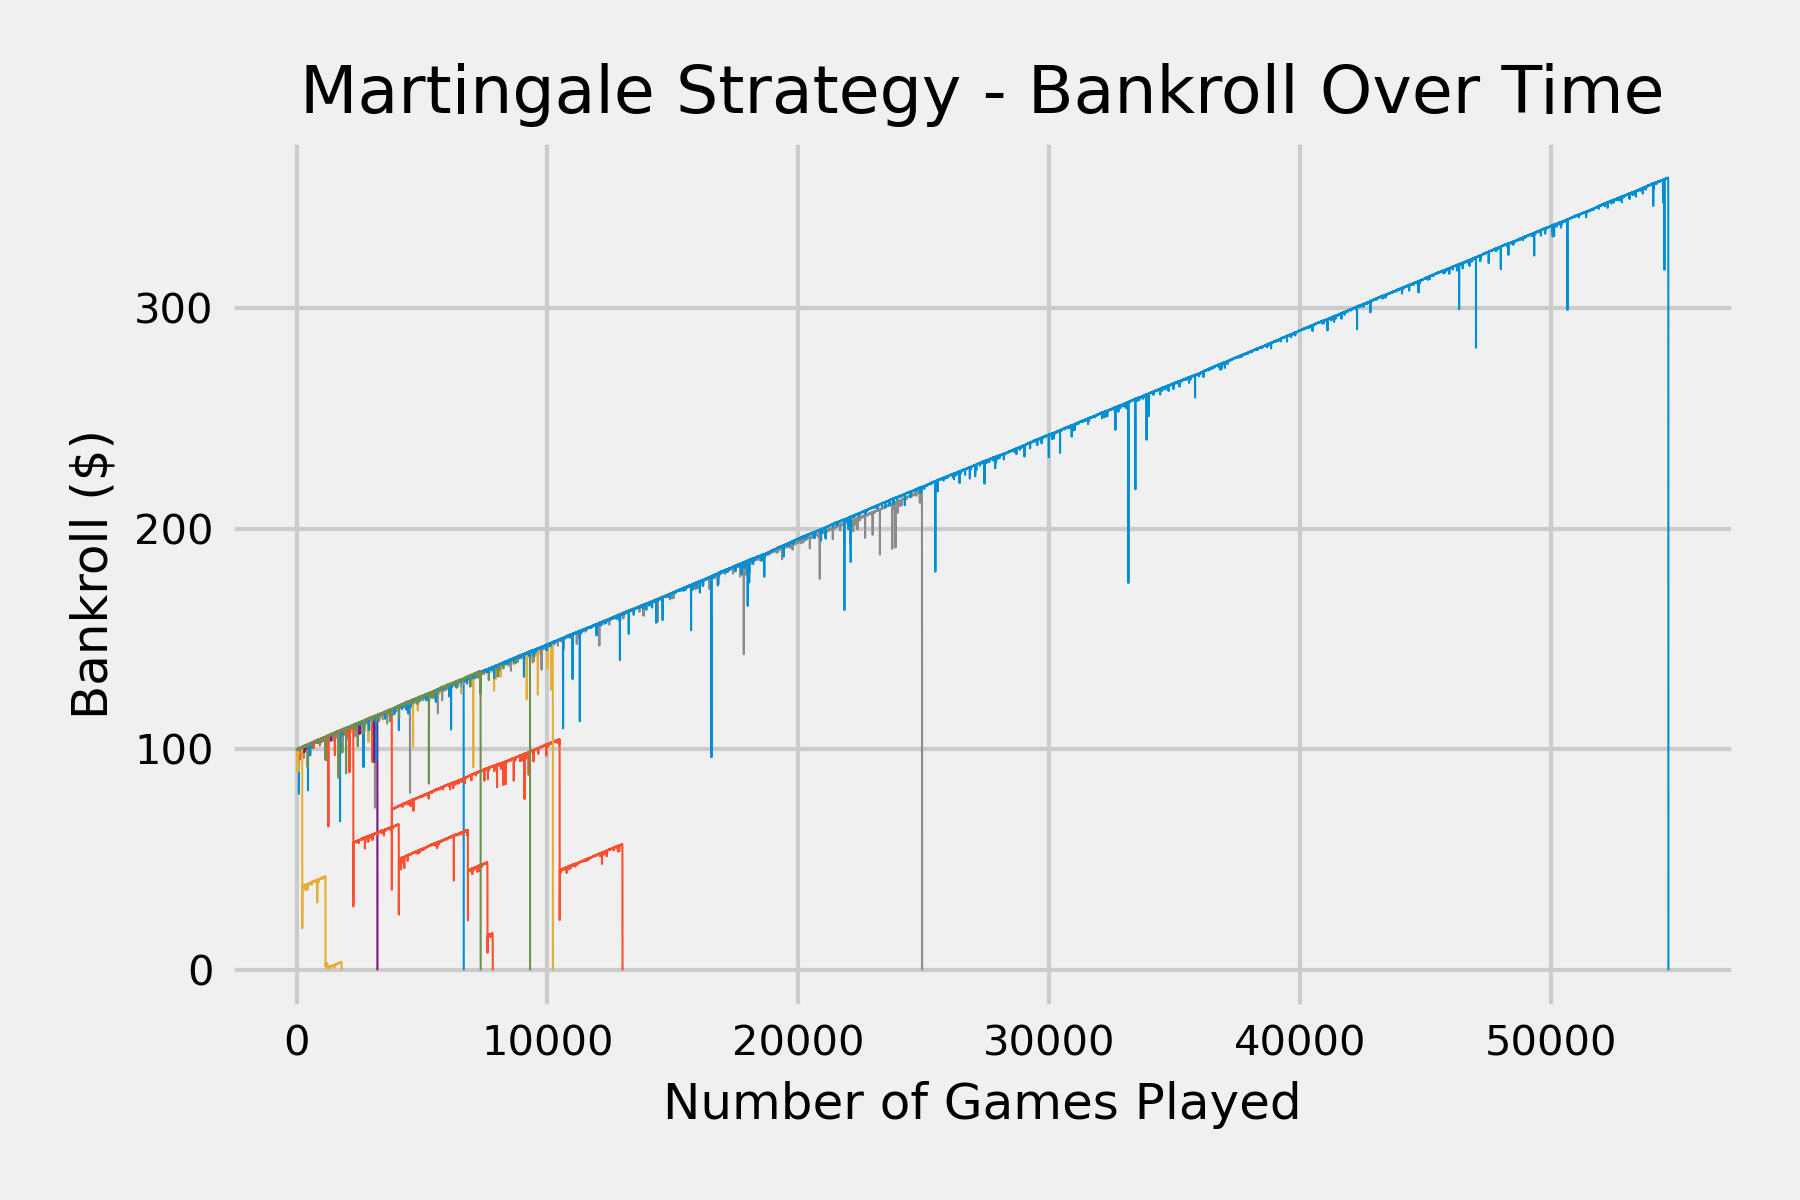
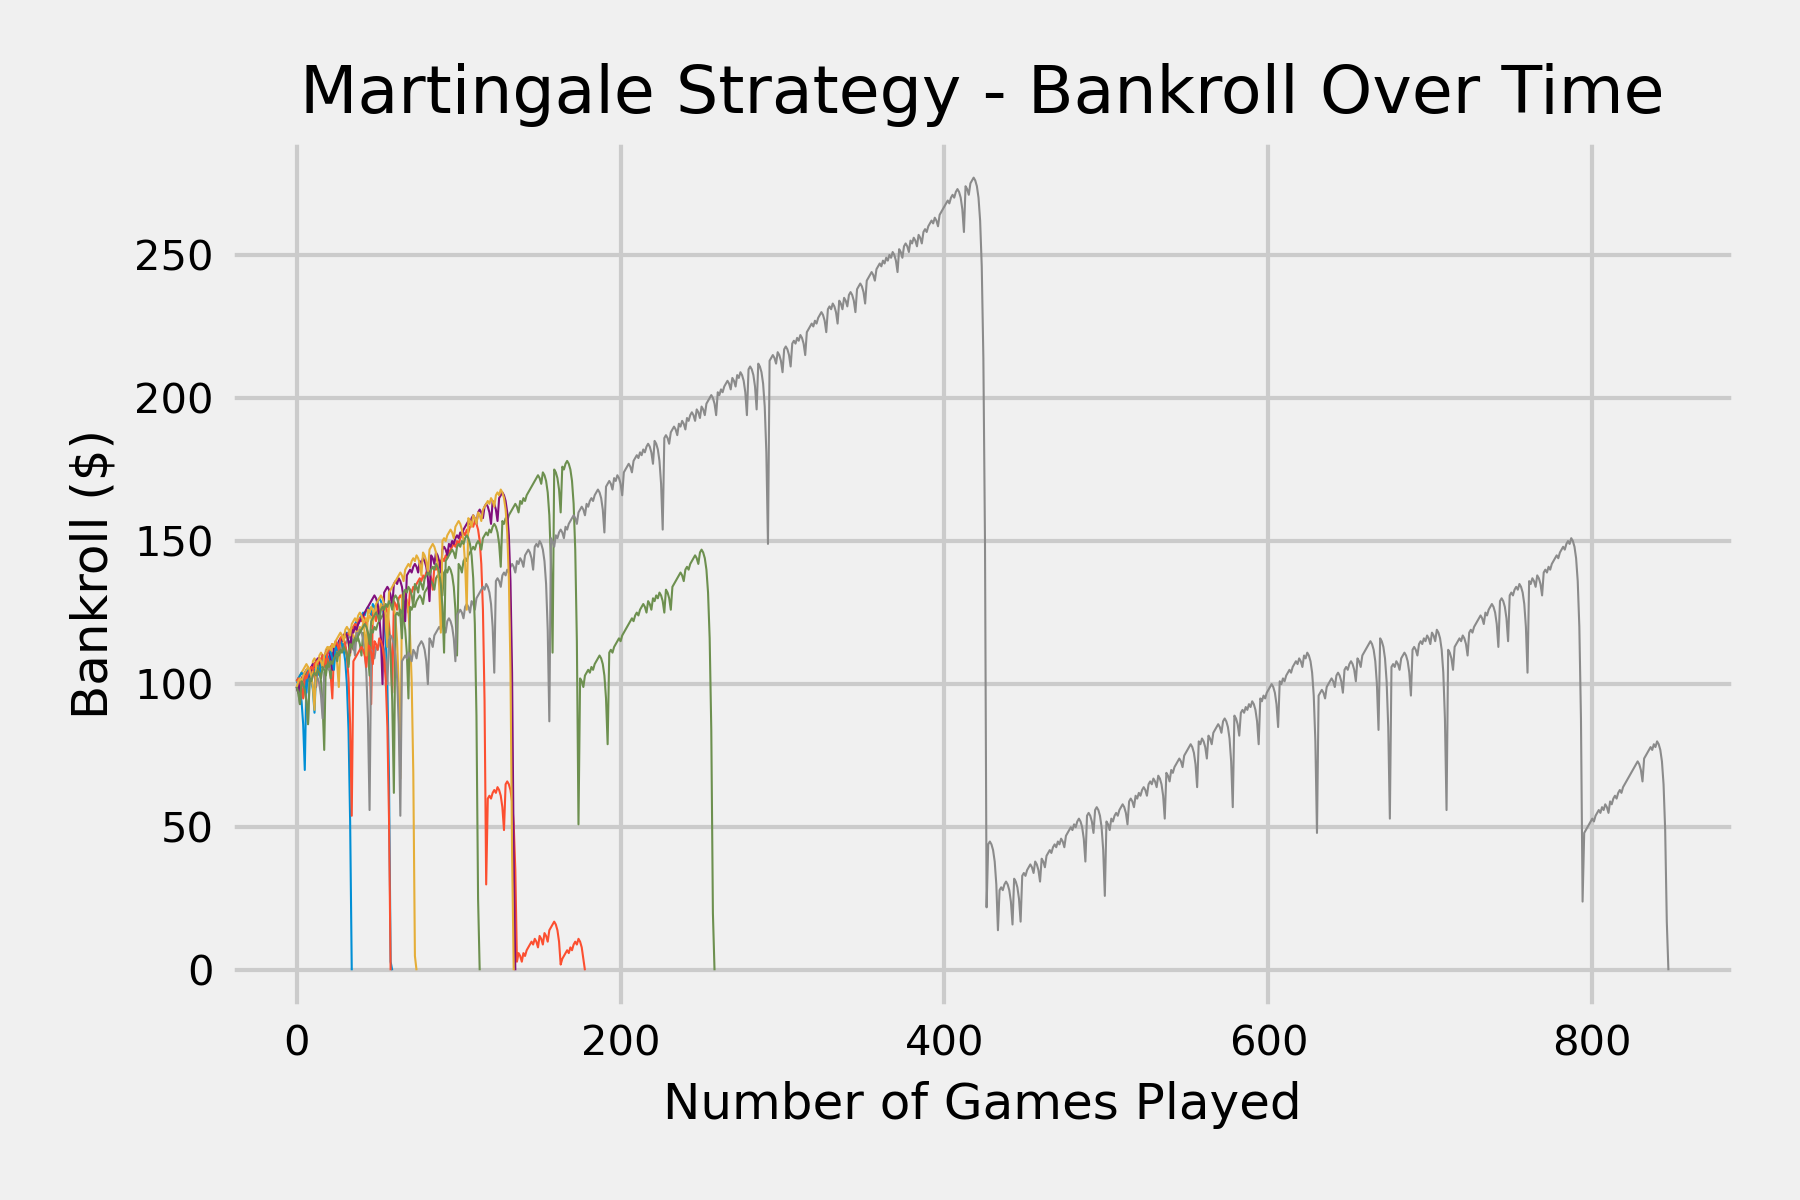
Modified roulette script

diff --git a/roulette.py b/roulette.py
@@ -66,7 +66,7 @@ the bet after every loss.
 def martingale():
     bankroll_over_time = []
     bankroll = 100  # Starting money reserve
-    bet = 0.01  # Initial bet
+    bet = 1  # Initial bet
     while bankroll > 0:
         roll = spin_wheel()
         if bet > bankroll:
@@ -74,7 +74,7 @@ def martingale():
         #outcomes.append(roll)
         if roll == 'red':
             bankroll += bet
-            bet = 0.01
+            bet = 1
         else:
             bankroll -= bet
             bet *= 2
@@ -97,7 +97,7 @@ current bet plus an extra amount equal to the original bet.
 def grand_martingale():
     bankroll_over_time = []
     bankroll = 100  # Starting money reserve
-    bet = 0.01  # Initial bet
+    bet = 1  # Initial bet
     while bankroll > 0:
         roll = spin_wheel()
         if bet > bankroll:
@@ -105,10 +105,10 @@ def grand_martingale():
         #outcomes.append(roll)
         if roll == 'red':
             bankroll += bet
-            bet = 0.01
+            bet = 1
         else:
             bankroll -= bet
-            bet *= 2 + bet
+            bet = 2*bet + bet
 
         bankroll_over_time.append(bankroll)
 
@@ -127,7 +127,7 @@ when they lose a hand, it is increased after a win.
 def reverse_martingale():
     bankroll_over_time = []
     bankroll = 100  # Starting money reserve
-    bet = 0.01  # Initial bet
+    bet = 1  # Initial bet
     while bankroll > 0:
         roll = spin_wheel()
         if bet > bankroll:
@@ -138,13 +138,12 @@ def reverse_martingale():
             bet *= 2
         else:
             bankroll -= bet
-            bet = 0.01
+            bet = 1
 
         bankroll_over_time.append(bankroll)
 
+    return bankroll_over_time
 
-
-reverse_martingale = reverse_martingale()
 
 """
 Strategy 5: The D’Alembert
@@ -211,14 +210,14 @@ def all_in():
 def monte_carlo(simulations):
     plt.style.use('fivethirtyeight')
     for sim in range(1, simulations + 1):
-        plt.plot(all_in(), linewidth=0.5)
+        plt.plot(martingale(), linewidth=0.5)
         plt.xlabel("Number of Games Played", fontsize=12)
         plt.ylabel("Bankroll ($)", fontsize=12)
         plt.xticks(fontsize=10)
         plt.yticks(fontsize=10)
-        plt.title('All In Strategy - Bankroll Over Time', fontsize=16)
+        plt.title('Martingale Strategy - Bankroll Over Time', fontsize=16)
         plt.tight_layout()
-        plt.savefig('images/roulette_all_in.png', dpi=300)
+        plt.savefig('images/roulette_martingale.png', dpi=300)
 
 ###################################################
 
